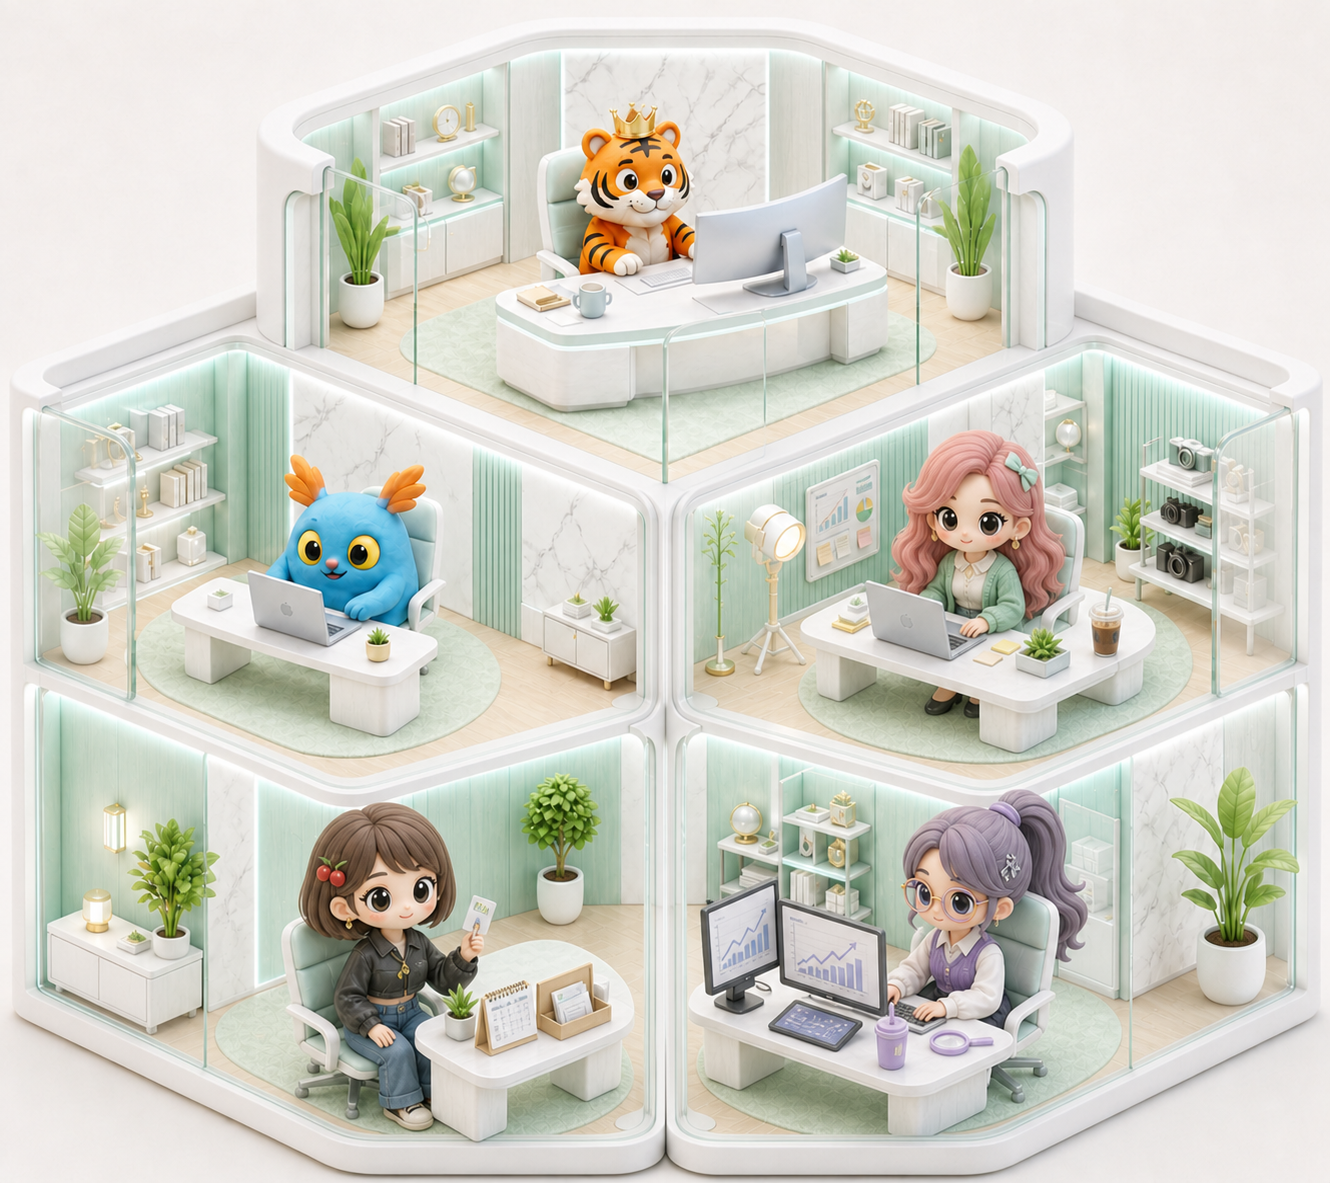
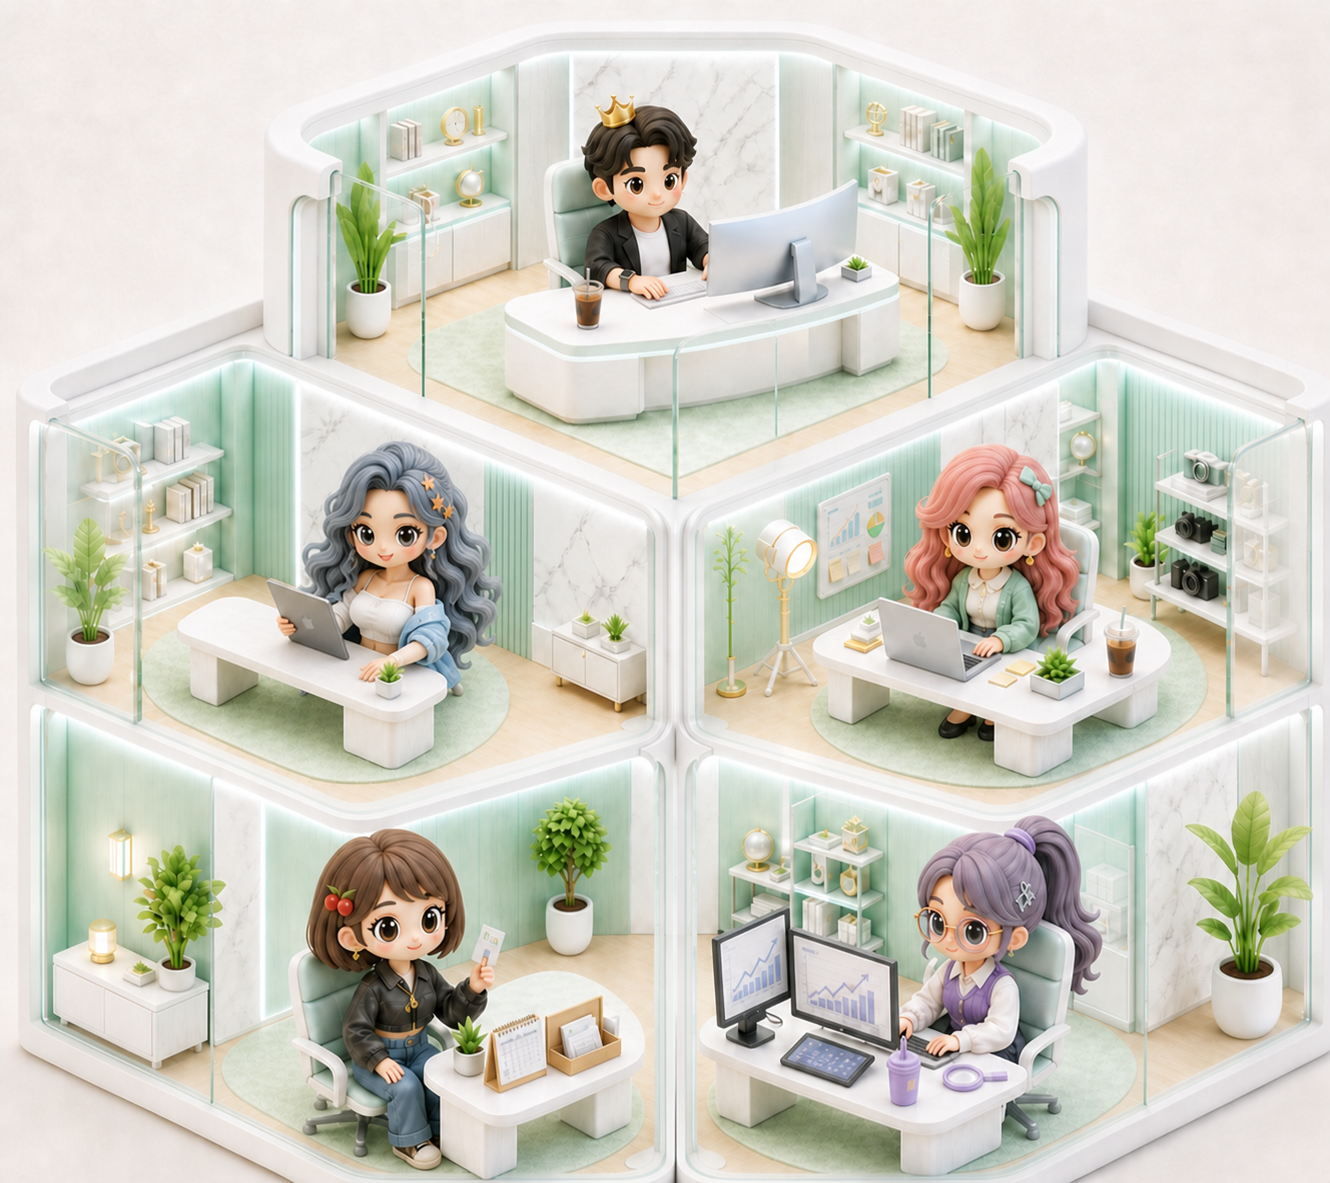
Complete 5-person white-mint 3D office map with Sena CEO and Mihyang characters

diff --git a/index.html b/index.html
@@ -219,7 +219,7 @@
       <p>방 캐릭터를 누르면 담당 업무가, 아래 접수 큐 카드를 누르면 상세 메모까지 전부 열려요.</p>
     </div>
     <div class="map-wrap">
-      <img src="office.png?v=4" alt="세나 비서실 부서별 3D 클레이 오피스">
+      <img src="office.png?v=6" alt="세나 비서실 부서별 3D 클레이 오피스">
       <button class="head-bubble boss" id="hb-세나" style="left:49%;top:7%;" onclick="showTab('approval', document.querySelectorAll('.tab-btn')[1])">👑 승인 0건</button>
       <button class="head-bubble" id="hb-미향" style="left:25%;top:37%;" onclick="openMember('미향')">💬 ...</button>
       <button class="head-bubble" id="hb-미유" style="left:74%;top:39%;" onclick="openMember('미유')">💬 ...</button>
